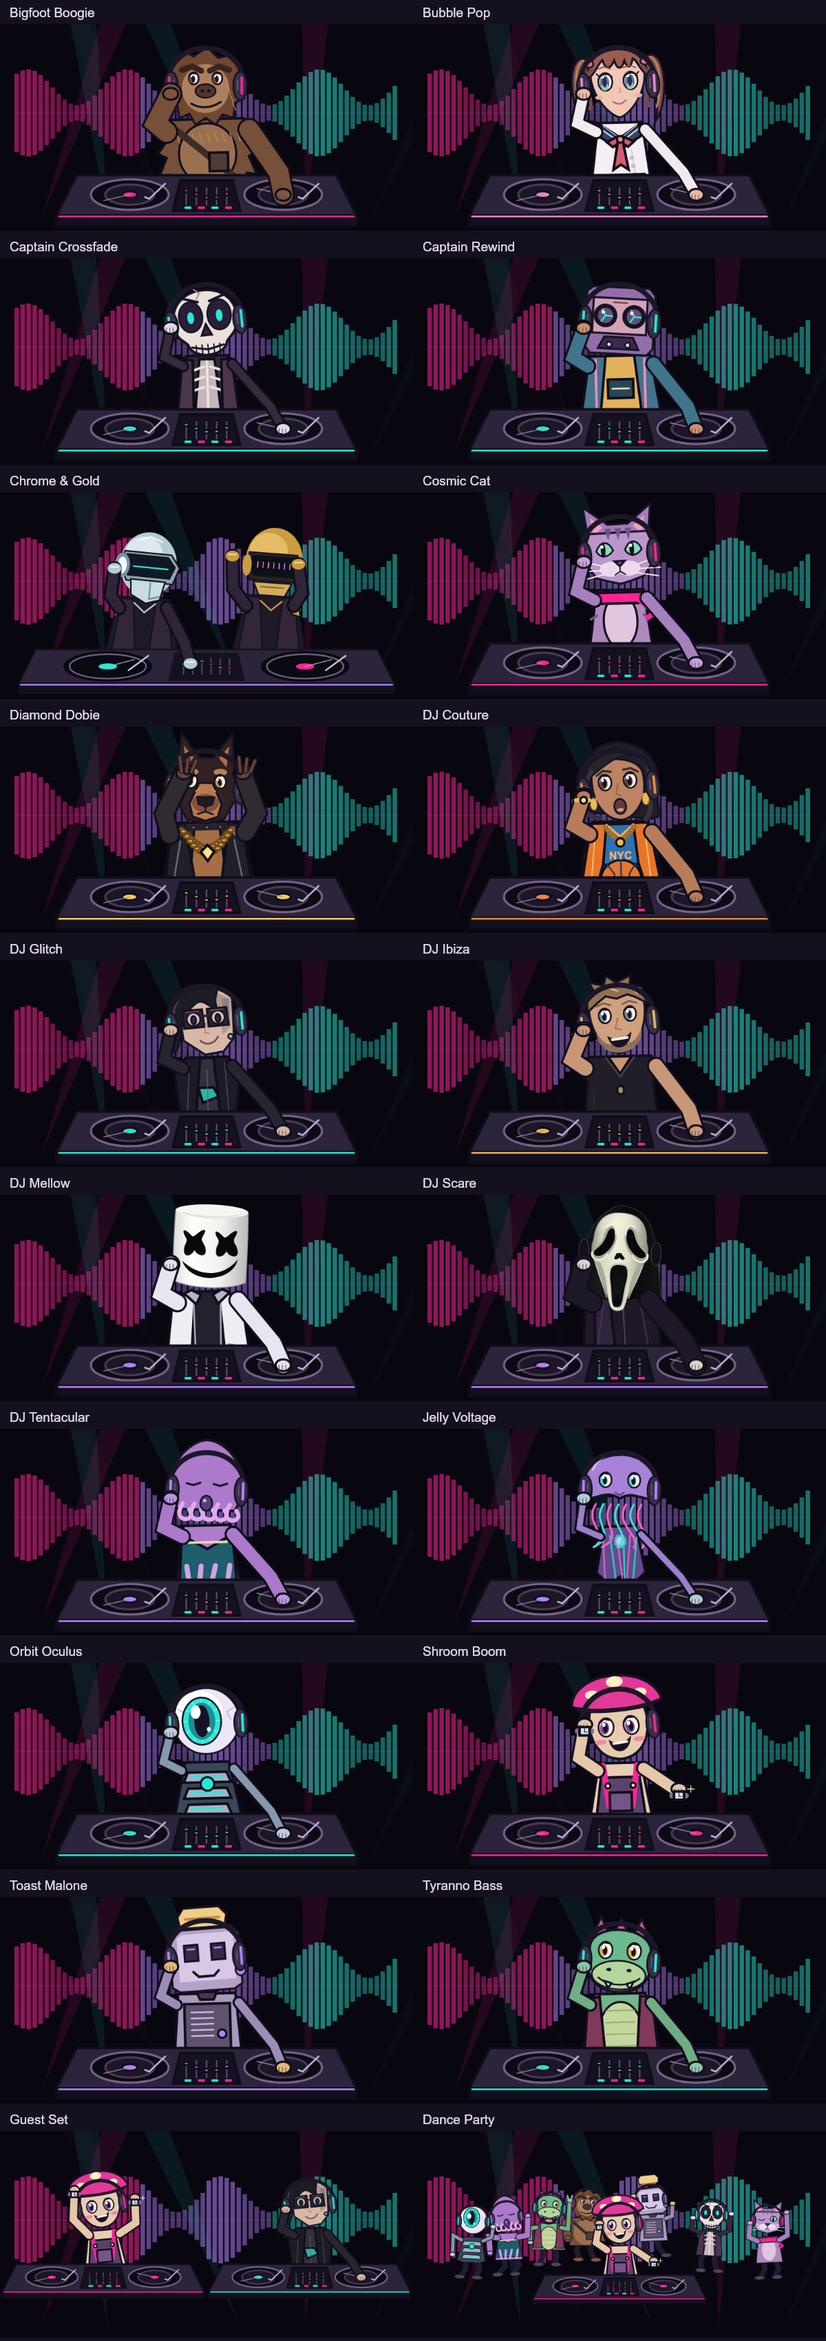
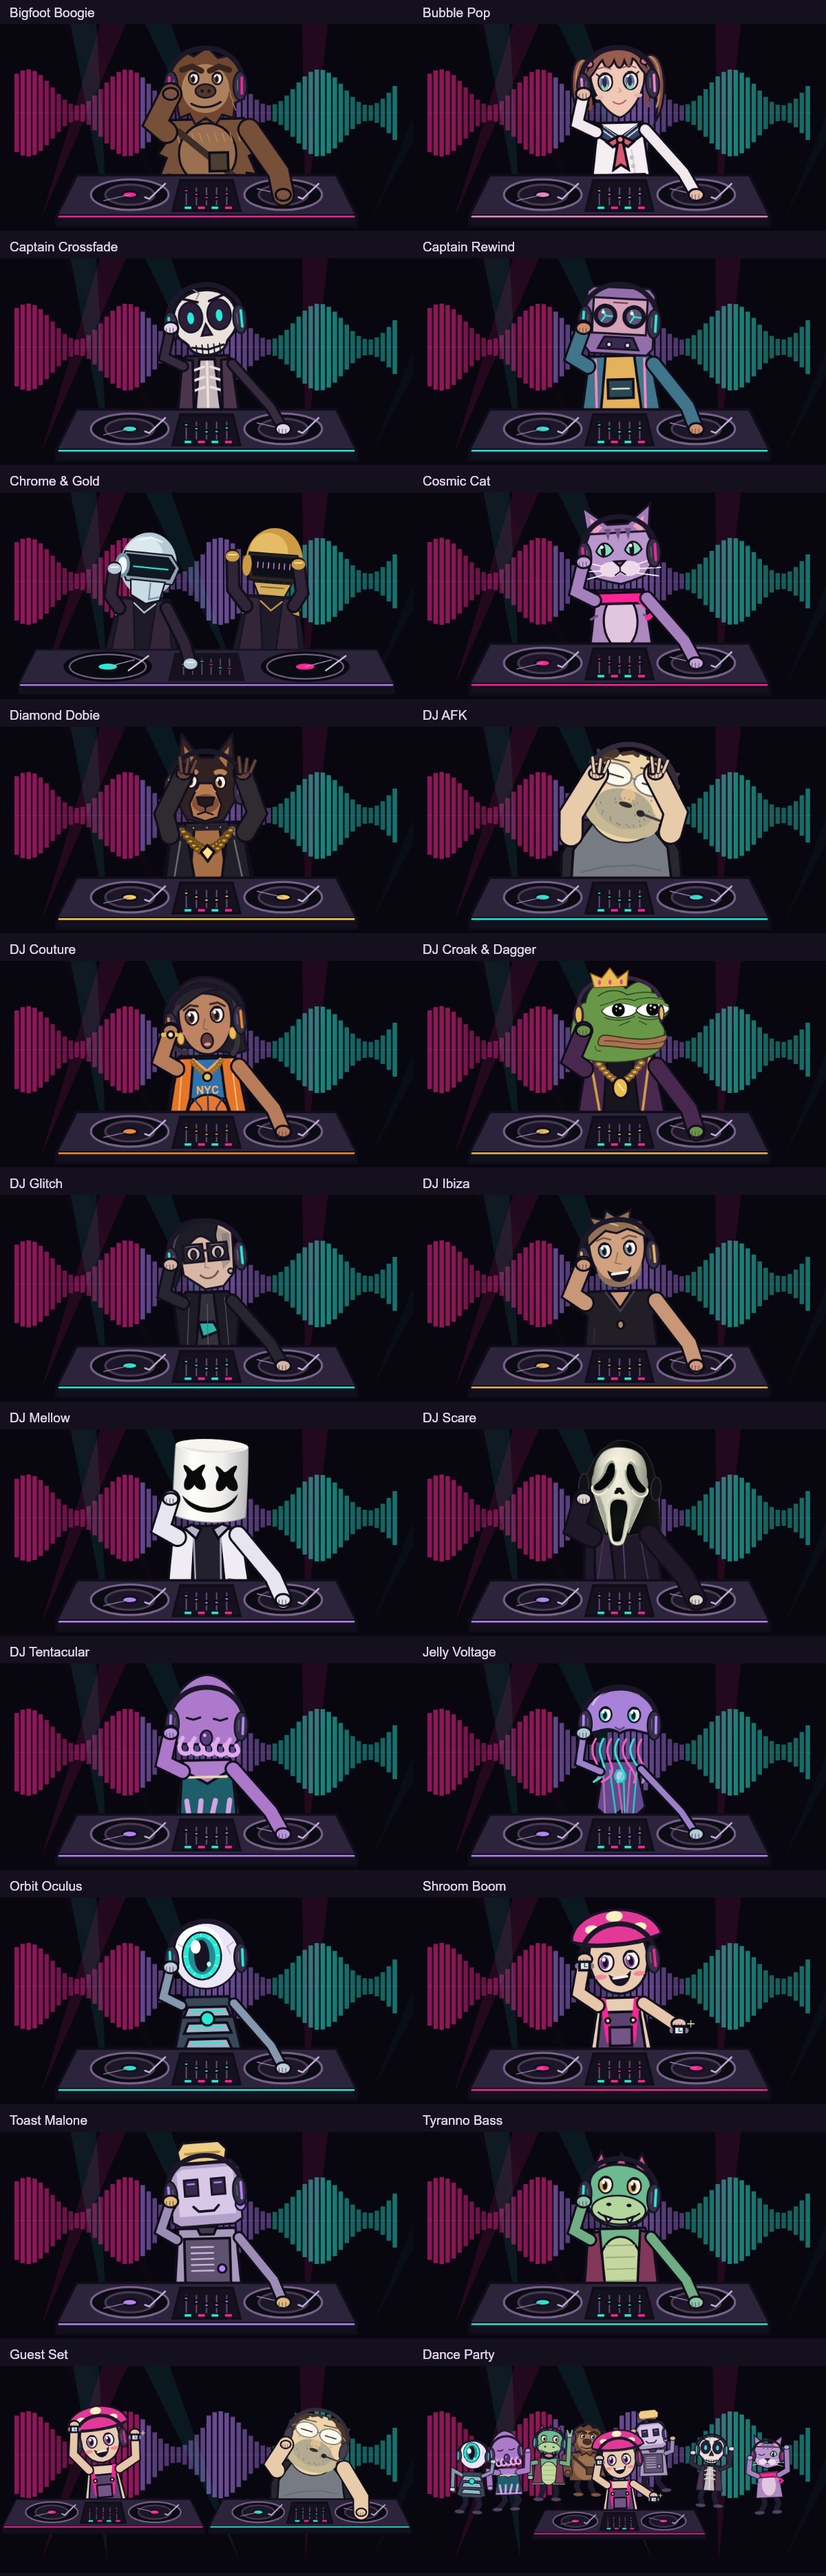
Add royal frog and AFK gamer DJs with distinct quiet activities

diff --git a/README.md b/README.md
@@ -8,7 +8,7 @@ Audio capture starts automatically. Explore EQ Bars, Warp Tunnel, Synth Grid, Sp
 
 ![Beat DJ live visualizer](docs/visualizer-7.png)
 
-**[Explore the illustrated visualizer and character guide →](docs/VISUAL-GUIDE.md)** — screenshots of all eight effects, all 17 runners, all six fighters and all 20 DJ choices, plus Chrome & Gold’s five new set routines.
+**[Explore the illustrated visualizer and character guide →](docs/VISUAL-GUIDE.md)** — screenshots of all eight effects, all 17 runners, all six fighters and all 22 DJ choices, plus Chrome & Gold’s five new set routines.
 
 ## Requirements
 
@@ -50,7 +50,7 @@ On the original Spotify screen, swipe sideways to cycle artwork and effects; swi
 
 **Beat Fighter:** six fighters, including Master Jin and The Bride, with varied targets, spinning kicks, jumps, ducks and character-specific strikes. Fighters hold a breathing ready stance between encounters. The shared Spectrum Waves effect remains behind them at reduced opacity; static arena scenery is removed. Silence animations retain their captions. Combat pace is independent of Runner and DJ speed.
 
-**Beat DJ:** twenty choices, alphabetized with Guest Set and Dance Party last. Distinct bodies, faces and outfits accompany scratches, fader moves, headphone checks, crowd gestures, occasional headbangs and character-specific quiet activities. DJ Couture takes peace-sign selfies; Toast Malone has an occasional toast/fire routine; Bubble Pop uses a bubble wand. Chrome & Gold share one two-platter table and trade mixing/hype roles, with five additional smoothly blended routines. Dance Party caps the scene at eight characters to limit rendering load.
+**Beat DJ:** twenty-two choices, alphabetized with Guest Set and Dance Party last. Distinct bodies, faces and outfits accompany scratches, fader moves, headphone checks, crowd gestures, occasional headbangs and character-specific quiet activities. DJ Croak & Dagger wears a crown and gold chain and polishes his gold during silence; DJ AFK has a broad gamer build and a keyboard break. DJ Couture takes peace-sign selfies; Toast Malone has an occasional toast/fire routine; Bubble Pop uses a bubble wand. Chrome & Gold share one two-platter table and trade mixing/hype roles, with five additional smoothly blended routines. Dance Party caps the scene at eight characters to limit rendering load.
 
 See the [visual guide](docs/VISUAL-GUIDE.md) for every character and effect.
 

diff --git a/docs/VISUAL-GUIDE.md b/docs/VISUAL-GUIDE.md
@@ -46,7 +46,7 @@ Planted martial artists with varied target heights, strikes and evasions; live S
 
 ## Beat DJ
 
-Twenty selectable DJ scenes, including shared-table Chrome & Gold, Guest Set and Dance Party.
+Twenty-two selectable DJ scenes, including shared-table Chrome & Gold, Guest Set and Dance Party.
 
 ![Beat DJ screenshot](visualizer-7.png)
 
@@ -66,7 +66,7 @@ Master Jin, Iron Monk, Jade Lotus, Ember Fox, Chrome Fist and The Bride. Distinc
 
 The gallery follows the alphabetical picker order, with Guest Set and Dance Party last. Tap the picture to cycle without opening a menu. The music-note button toggles lyrics independently.
 
-![All twenty Beat DJ scenes](dj-characters.png)
+![All twenty-two Beat DJ scenes](dj-characters.png)
 
 ## When the music stops
 
@@ -77,6 +77,12 @@ Characters settle into individual quiet activities after silence is detected, th
 ![Fighter quiet activities](fighter-quiet.png)
 
 ![DJ quiet activities](dj-quiet.png)
+
+## New arrivals: royal frog and gamer
+
+DJ Croak & Dagger uses the chosen crown-and-chain design, with a three-quarter frog face. DJ AFK has a broad gray-and-black shirt, glasses, scruffy hair and a headset. Both join the rotating Guest Set and Dance Party cast.
+
+![Croak and Dagger and DJ AFK performing and taking a break](new-djs.png)
 
 ## Chrome & Gold: five additional set animations
 

diff --git a/CHANGELOG.md b/CHANGELOG.md
@@ -1,5 +1,9 @@
 # Changelog
 
+## 0.2.4 — 2026-10-26
+
+Add DJ Croak & Dagger (royal frog) and DJ AFK (gamer), with distinct bodies, native vector heads, quiet activities and participation in Guest Set/Dance Party. Refresh the galleries for twenty-two DJ choices; existing selections retain their IDs.
+
 ## 0.2.3 — 2026-10-26
 
 Rename DJ Scream to DJ Scare and Full Crew to Dance Party. Remove Bubble Pop’s stray hair stroke above her head. Refresh character galleries.
